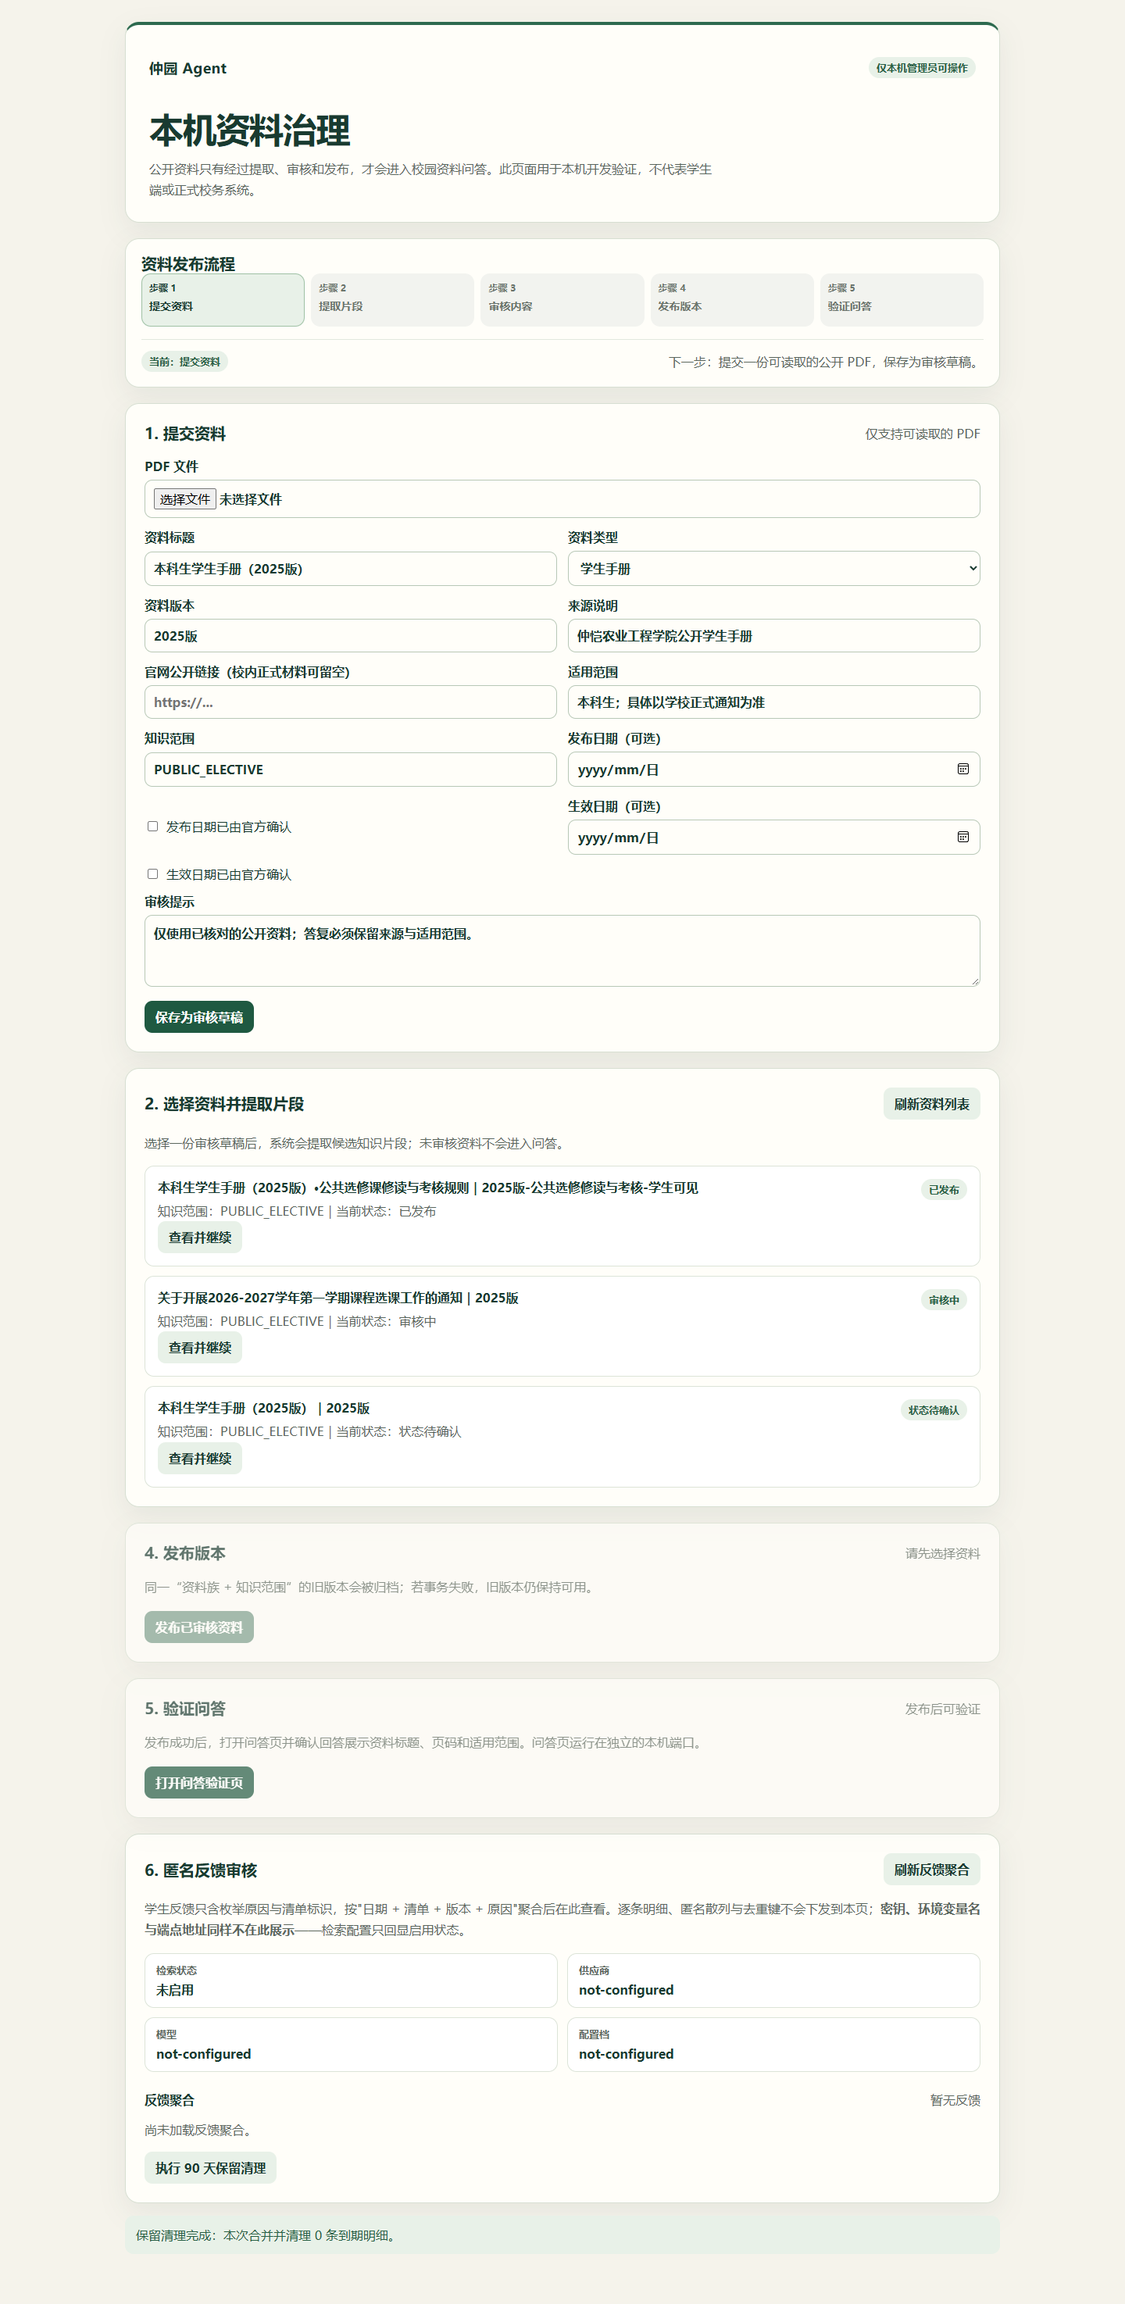
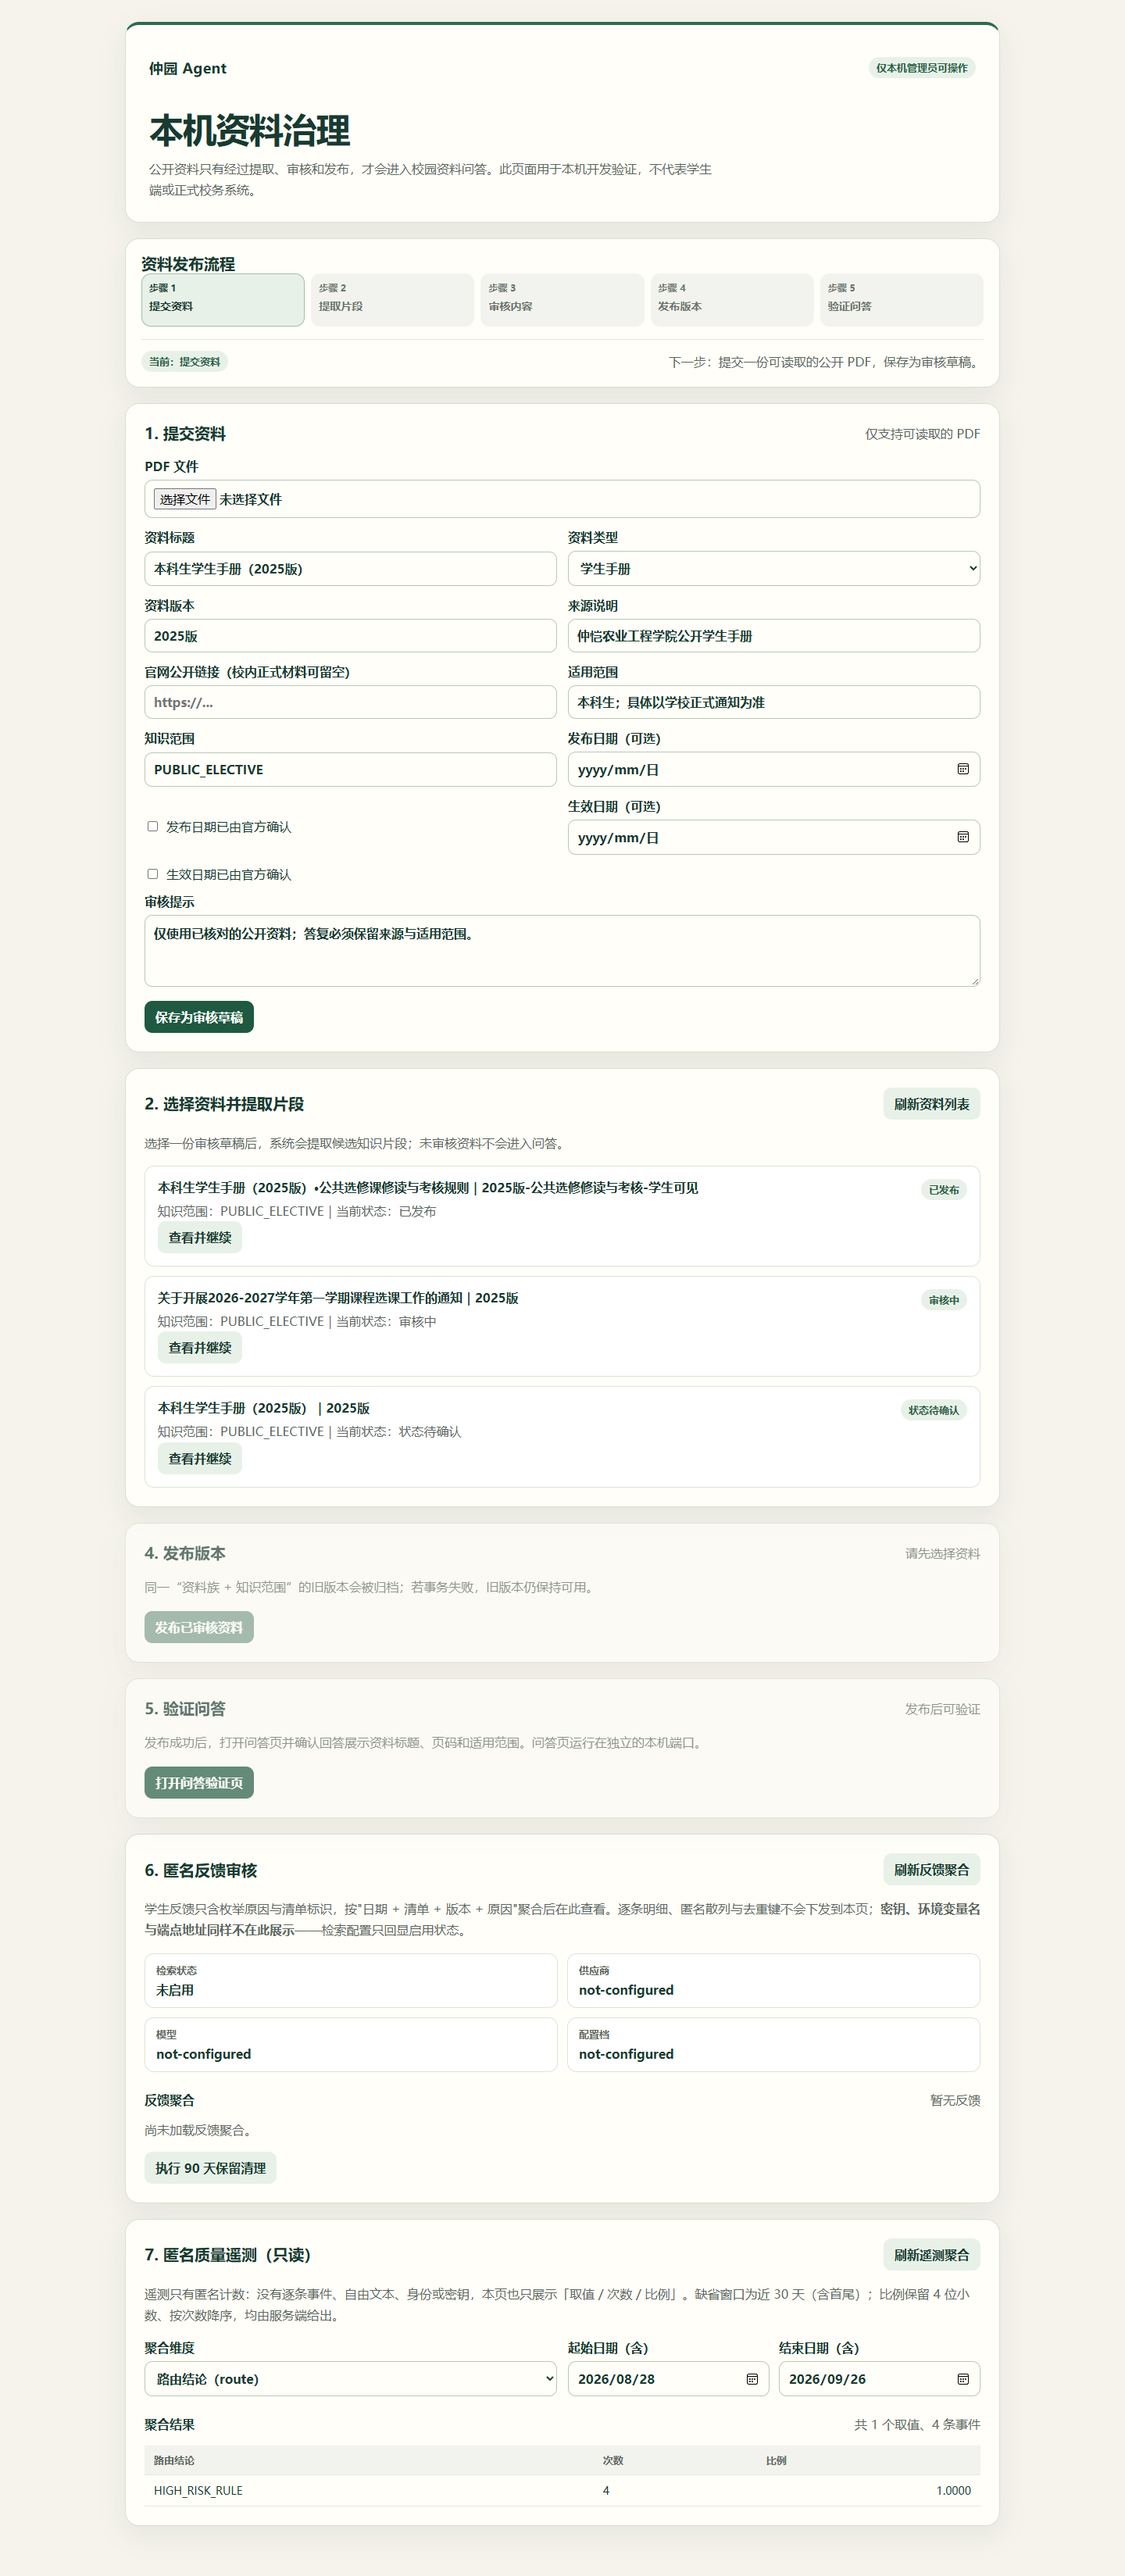
test(frontend): 真实环境复验遥测区与反馈两项待办
- 真机 8124（P0 修复后、合并主线、无补丁启动）："7. 匿名质量遥测"对接真实接口逐项通过——
  默认窗口（近 30 天含首尾）真数据 HIGH_RISK_RULE/4/1.0000（比例 4 位小数在真接口保住）、
  布尔维度渲染"否"、空窗口 [] 空态无报错；pageerror 0、无横向滚动。
  local-admin.real-8124.1440x900.light.png 已更新为含遥测区的真机页面（按账本结论只出 light 版）。
- 真机 8123 学生反馈闭环：真实 SSE 回答（规则依据 + 条级引用卡）→ 反馈入口指向
  「选课调整办理指引（公共选修课）2025版」→ 点"内容有误"首提 201 → 同日同原因再点 200
  （本地匿名散列跨轮稳定，后端去重生效）。页面零改动。新增 2 张截图。
- 账本同步更新（第二/三节改为真机复验记录）；副作用披露：真机复验按真实用户路径写入
  共享演示库 2 条反馈事件（201+去重 200，净 1 条计数），属正常业务数据、未手工清理。
- 状态板 §三 收尾块两项待办关闭。真机实例均已停、端口已释放。

diff --git a/docs/evidence/2026-09-23-WB1-前端界面QA-证据账本.md b/docs/evidence/2026-09-23-WB1-前端界面QA-证据账本.md
@@ -55,12 +55,33 @@
 全部场景 `pageerror` 为 0、外部请求为 0、无横向滚动。截图：
 `local-admin.visual-check.1440x900.stage9-telemetry.{data,handoff,empty,unavailable,inverted-window}.png`。
 
-**⚠ 阻塞与待办**：真机 8124 目前因管理端启动 P0（`TelemetryAdminController` 双构造器缺
-`@Autowired`，线 B 修）**起不来**，以上为 mock 取证；**线 B 修复入库后需真机复验一次并补
-`local-admin.real-8124.*` 截图**，在那之前不得宣称"已对真实遥测接口验证过"。
+**✅ 真机复验（2026-09-26，P0 已由线 B 修复入库＝第三十次合并）**：WB-1 在合并后主线上
+无补丁真机起 8124（显式 `--server.port=8124`），页面"7. 匿名质量遥测（只读）"对接真实接口逐项通过：
 
-## 三、学生侧反馈闭环复验（PM 派发第 3 项）—— 被线 B 的 B-2 阻塞
+| 项 | 实测 |
+| --- | --- |
+| 默认窗口（2026-08-28 → 2026-09-26，30 天含首尾） | HTTP 200，`route` 维度 1 桶：`HIGH_RISK_RULE / 4 / 1.0000`（与 PM 8136 真机观察一致；比例 4 位小数在真接口上保住） |
+| 切维度 `handoffRequired` | HTTP 200，布尔桶渲染为"否 4 / 1.0000" |
+| 空窗口（2026-01-01 → 2026-01-02） | HTTP 200 + `[]` → 空态"所选窗口内暂无遥测数据。"，无错误横幅 |
+| 健康度 | `pageerror` 0、无横向滚动；console 仅 1 条 favicon 404（已知的页面外资源，非本区请求） |
 
-`2025版` 提交反馈当前仍会被后端 `guideVersion` 校验拦下（400，WB-1 2026-09-22 已实测并登记
-SYNC-STATUS §四）。等线 B 的"反馈 `guideVersion` 校验放宽"（方案①）入库后，复验
-`2025版` → **201** 并附截图回报。页面前端无需改动（请求体形状已按契约实现）。
+截图：`local-admin.real-8124.1440x900.light.png`（已更新为含遥测区的真机页面；按第一节结论只出 light 版）。
+真机实例已停、端口已释放。
+
+## 三、学生侧反馈闭环复验（PM 派发第 3 项）—— ✅ 已真机闭环（2026-09-26）
+
+`2025版` 提交反馈此前被后端 `guideVersion` 校验拦下（400，WB-1 2026-09-22 实测并登记 §四）；
+线 B 的 B-2 放宽（`GUIDE_VERSION = [\p{L}\p{N}._-]{1,128}`，标识与 64 位散列规则不变）已随
+第三十次合并入库。**WB-1 页面零改动**（请求体本就按契约取自 `guideCard`），真机 8123 走完整学生反馈流：
+
+| 步骤 | 实测 |
+| --- | --- |
+| 问「选课调整怎么办理？」（真实 SSE 通路） | `规则依据` + 规则级回答 + 条级引用卡（`PDF 第 77 页，第 9、13 条`）+ 反馈入口出现，指向「针对《选课调整办理指引（公共选修课）》2025版」 |
+| 点「内容有误」（首次） | **HTTP 201**，页面回执"已记录你的反馈：内容有误。"，按钮收起 |
+| 同一浏览器再来一轮、点同一原因 | **HTTP 200**，回执"已记录：今天已经反馈过「内容有误」，未重复计数。"——本地匿名散列跨轮稳定，真实后端同日去重生效 |
+
+截图：`local-preview.real-8123.1440x900.feedback-201.png`、
+`local-preview.real-8123.1440x900.feedback-200-duplicate.png`。`pageerror` 0、无横向滚动。
+副作用披露：本次真机复验按真实用户路径写入共享演示库 **2 条反馈事件**（同一天、同一匿名散列、
+同一清单/版本/原因，201+去重 200，即净 1 条计数）；属演示库的正常业务数据，未手工清理。
+真机实例已停、端口已释放。**学生侧匿名反馈闭环至此在真机上完整成立。**

diff --git a/docs/plans/agent-sync/SYNC-STATUS.md b/docs/plans/agent-sync/SYNC-STATUS.md
@@ -130,8 +130,12 @@
 >
 > 2026-09-23 已完成并清除 WB-1 对 `zhku/local-admin/index.html` 的 PM 派发批占用（交付 `aff54e3`：
 > "匿名质量遥测"只读区 + 两张 real-8124 截图同字节 QA 结论 + 新账本
-> `docs/evidence/2026-09-23-WB1-前端界面QA-证据账本.md`）。**两项待办挂在 WB-1 名下**：
-> ① 真机 8124 复验遥测区（等线 B 修管理端启动 P0）；② 反馈闭环复验 `2025版`→201（等线 B 的 B-2）。
+> `docs/evidence/2026-09-23-WB1-前端界面QA-证据账本.md`）。
+> **两项待办已于 2026-09-26 真机复验后关闭**（P0 修复与 B-2 均已入库）：
+> ① 真机 8124 遥测区：默认窗口真数据 `HIGH_RISK_RULE/4/1.0000`、布尔维度"否"、空窗口空态，全绿；
+> ② 反馈闭环：真机 8123 走完整学生流，`2025版` → **201**、同日同原因再点 → **200**（后端去重生效），
+> 页面零改动。详见该账本第二/三节；截图 `local-admin.real-8124.1440x900.light.png`（更新）与
+> `local-preview.real-8123.1440x900.feedback-{201,200-duplicate}.png`（新增）。
 >
 > 2026-09-20 已完成并清除 CX-1 对 `feedback/`、`V16`、
 > `governance/web/FeedbackAdminController.java` 与 `ZhkuLocalAdminConfiguration.java` 的阶段 9 占用；
